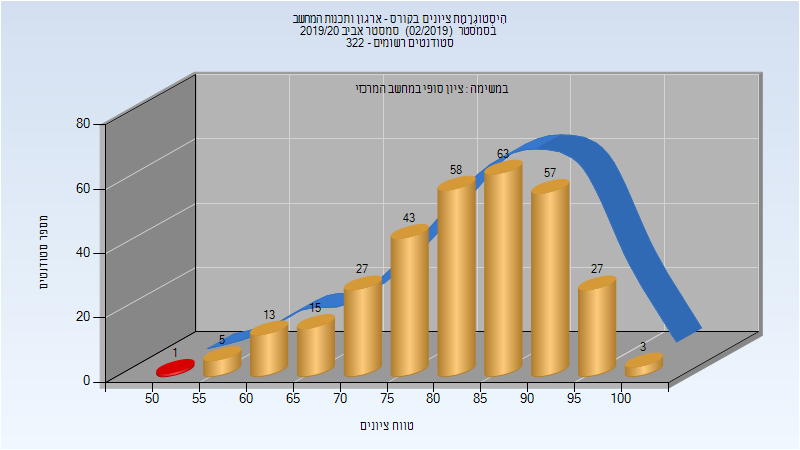
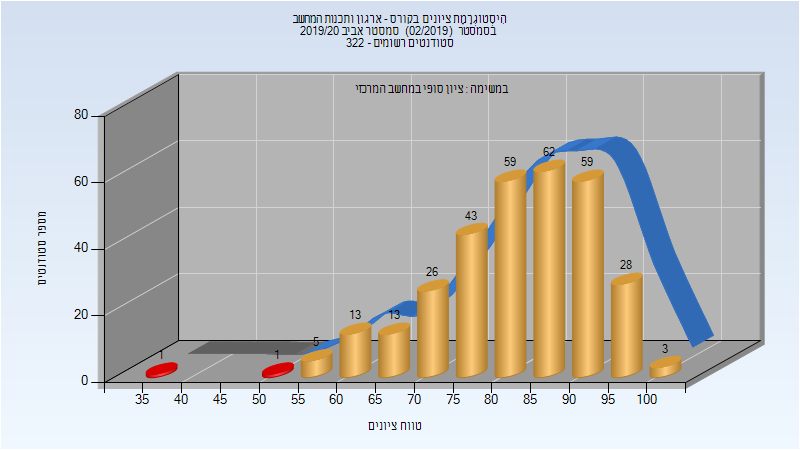
Deploy michael-maltsev/technion-histograms to github.com/michael-maltsev/technion-histograms.git:gh-pages

diff --git a/234118/index.html b/234118/index.html
@@ -561,12 +561,12 @@
 </thead>
 <tbody>
 <tr>
-<td>312</td>
-<td>311/1</td>
+<td>313</td>
+<td>311/2</td>
+<td>99</td>
+<td>38</td>
 <td>100</td>
-<td>50</td>
-<td>100</td>
-<td>82.603</td>
+<td>82.671</td>
 <td>84</td>
 </tr>
 </tbody>

diff --git a/234118/README.md b/234118/README.md
@@ -190,5 +190,5 @@
 
 | סטודנטים | עברו/נכשלו | אחוז עוברים | ציון מינימלי | ציון מקסימלי | ממוצע | חציון |
 | ---- | ---- | ---- | ---- | ---- | ---- | ---- |
-| 312 | 311/1 | 100 | 50 | 100 | 82.603 | 84 |
+| 313 | 311/2 | 99 | 38 | 100 | 82.671 | 84 |
 
